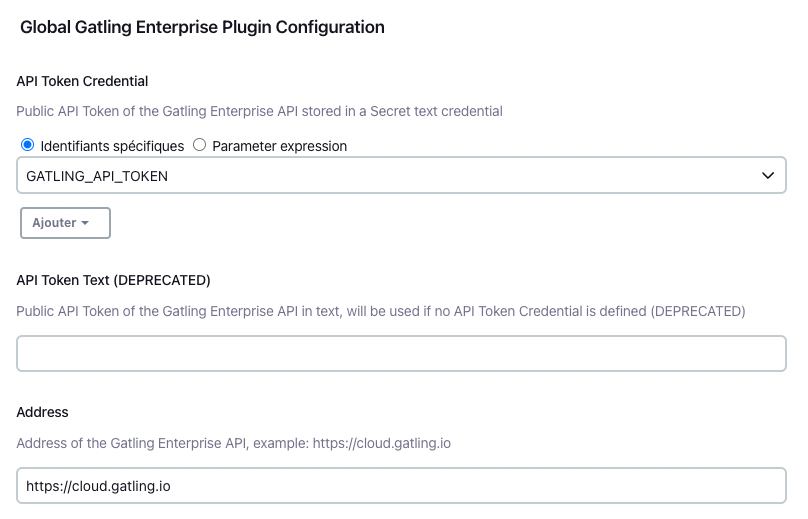
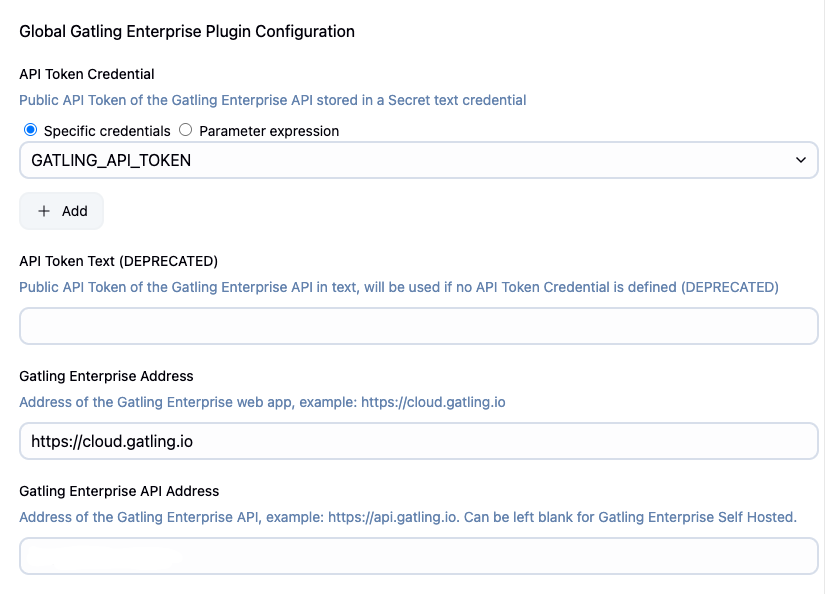
doc: Document API Address setting in CI plugins for Slef-Hosted

diff --git a/self-hosted-legacy/integrations/ci-cd/jenkins/index.md b/self-hosted-legacy/integrations/ci-cd/jenkins/index.md
@@ -49,7 +49,7 @@ The plugin needs some global configuration. Go to **Manage Jenkins**, **Configur
 
 Choose the Jenkins credentials where [you stored your API token]({{< ref "#api-token-and-jenkins-credentials" >}}).
 
-The **Address** is the address of Gatling Enterprise. You can also configure it per CI project if you have several instances of Gatling Enterprise Self-Hosted.
+The **Address** is the address of Gatling Enterprise. The **API Address** should be left blank for Gatling Enterprise Self-Hosted.
 
 {{< img src="global-configuration.png" alt="Global Configuration" >}}
 
@@ -63,32 +63,51 @@ You can use the Pipeline Snippet Generator to help you use the Jenkins Plugin. C
 
 {{< img src="pipeline-generator.png" alt="Snippet Generator" >}}
 
-If you don't want to use the globally configured API token, you can chose another one [stored in a Jenkins secret text credential]({{< ref "#api-token-and-jenkins-credentials" >}}). Choose one of the simulations in the drop-down menu, then click Generate Groovy. Copy and paste the result in your Pipeline script, eg:
+You can [override the address and/or API token]({{< ref "#overriding-the-global-configuration" >}}) if needed, otherwise leave those fields blank.
+
+Choose one of the simulations in the drop-down menu, then click Generate Groovy. Copy and paste the result in your Pipeline script, eg:
+
+##### Declarative Pipeline Syntax:
 ```groovy
-// Declarative Pipeline Syntax
 pipeline {
     agent any
     stages {
         stage("Gatling Enterprise simulation") {
             steps {
-                gatlingFrontLineLauncherStep credentialId: 'MY_JENKINS_CREDENTIAL_ID', simulationId: '00eacd1c-ef91-4076-ad57-99b4c6675a9e'
+                gatlingFrontLineLauncherStep simulationId: '00eacd1c-ef91-4076-ad57-99b4c6675a9e'
             }
         }
     }
 }
+```
 
-// Scripted Pipeline Syntax
+##### Scripted Pipeline Syntax:
+```groovy
 node {
     stage("Gatling Enterprise simulation") {
-        gatlingFrontLineLauncherStep credentialId: 'MY_JENKINS_CREDENTIAL_ID', simulationId: '00eacd1c-ef91-4076-ad57-99b4c6675a9e'
+        gatlingFrontLineLauncherStep simulationId: '00eacd1c-ef91-4076-ad57-99b4c6675a9e'
     }
 }
 ```
 {{< img src="pipeline-configuration.png" alt="Pipeline Configuration" >}}
 
-{{< alert tip >}}
-`gatlingFrontLineLauncherStep` can also take an optional `address` parameter, to override the address configured globally. This can be useful in some cases.
-{{< /alert >}}
+#### Overriding the global configuration
+
+{{< alert info >}}
+This is especially useful when transitioning from Gatling Enterprise Self-Hosted to Gatling Enterprise Cloud, as you will need use the Cloud URLs and API token only for the simulations which have already been migrated; or if you have several Self-Hosted instances.
+
+Only specifying a different `credentialId` can also be useful if you use API tokens with specific permissions (e.g. each restricted to one team).
+{{</ alert >}}
+
+If you do not want to use the globally configured URLs and API token, you can override their values for each step. For the API token, `credentialId` must contain the ID of a [Jenkins secret text credential]({{< ref "#api-token-and-jenkins-credentials" >}}).
+
+```groovy
+gatlingFrontLineLauncherStep(
+    simulationId: '00eacd1c-ef91-4076-ad57-99b4c6675a9e',
+    credentialId: 'GATLING_API_TOKEN',
+    address: 'https://my-gatling-enterprise-instance.tld'
+)
+```
 
 #### Passing parameters
 

diff --git a/content/integrations/ci-cd/jenkins/index.md b/content/integrations/ci-cd/jenkins/index.md
@@ -74,7 +74,9 @@ You can use the Pipeline Snippet Generator to help you use the Jenkins Plugin. C
 
 {{< img src="pipeline-generator.png" alt="Snippet Generator" >}}
 
-If you don't want to use the globally configured API token, you can choose another one [stored in a Jenkins secret text credential]({{< ref "#api-token-and-jenkins-credentials" >}}). Choose one of the simulations in the drop-down menu, then click Generate Groovy. Copy and paste the result in your Pipeline script, eg:
+You can [override the address and/or API token]({{< ref "#overriding-the-global-configuration" >}}) if needed, otherwise leave those fields blank. 
+
+Choose one of the simulations in the drop-down menu, then click Generate Groovy. Copy and paste the result in your Pipeline script, eg:
 
 ##### Declarative Pipeline Syntax:
 ```groovy
@@ -108,7 +110,7 @@ This is especially useful when transitioning from Gatling Enterprise Self-Hosted
 Only specifying a different `credentialId` can also be useful if you use API tokens with specific permissions (e.g. each restricted to one team).
 {{</ alert >}}
 
-If you do not want to use the globally configured URLs and API token, you can override their values for each step:
+If you do not want to use the globally configured URLs and API token, you can override their values for each step. For the API token, `credentialId` must contain the ID of a [Jenkins secret text credential]({{< ref "#api-token-and-jenkins-credentials" >}}).
 
 ```groovy
 gatlingFrontLineLauncherStep(

diff --git a/self-hosted-legacy/integrations/ci-cd/bamboo/index.md b/self-hosted-legacy/integrations/ci-cd/bamboo/index.md
@@ -31,9 +31,13 @@ The plugin needs some global configuration. Go to **Administration**, then **Glo
 
 Add two new variables:
 
-- the first one is named `frontline.address`, and corresponds to the address of Gatling Enterprise.
-- the second one is named `frontline.apiTokenPassword`, and corresponds to the API token needs to authenticate to Gatling Enterprise:
+- `frontline.address` corresponds to the address of Gatling Enterprise (`https://cloud.gatling.io`).
+- `frontline.apiTokenPassword` corresponds to the API token needed to authenticate to Gatling Enterprise:
   - the [API token]({{< ref "/admin/api-tokens" >}}) needs the **All** role.
+
+{{< alert info >}}
+A variable `frontline.apiAddress` can also be defined but is not needed for Gatling Enterprise Self-Hosted. Simply make sure that this variable is not defined.
+{{< /alert >}}
 
 {{< img src="global-variable.png" alt="Global variable" >}}
 

diff --git a/self-hosted-legacy/integrations/ci-cd/teamcity/index.md b/self-hosted-legacy/integrations/ci-cd/teamcity/index.md
@@ -32,6 +32,7 @@ Once the plugin is uploaded, you need to enable it.
 The plugin needs a global configuration. Go to **Administration**, then **frontline-teamcity-plugin**:
 
 - the **Gatling Enterprise Address** is the address of Gatling Enterprise.
+- the **Gatling Enterprise API Address** is not needed with Gatling Enterprise Self-Hosted and should be left blank.
 - the **Gatling Enterprise API Token** is needed to authenticate to Gatling Enterprise:
   - the [API token]({{< ref "/admin/api-tokens" >}}) needs the **All** role.
 
